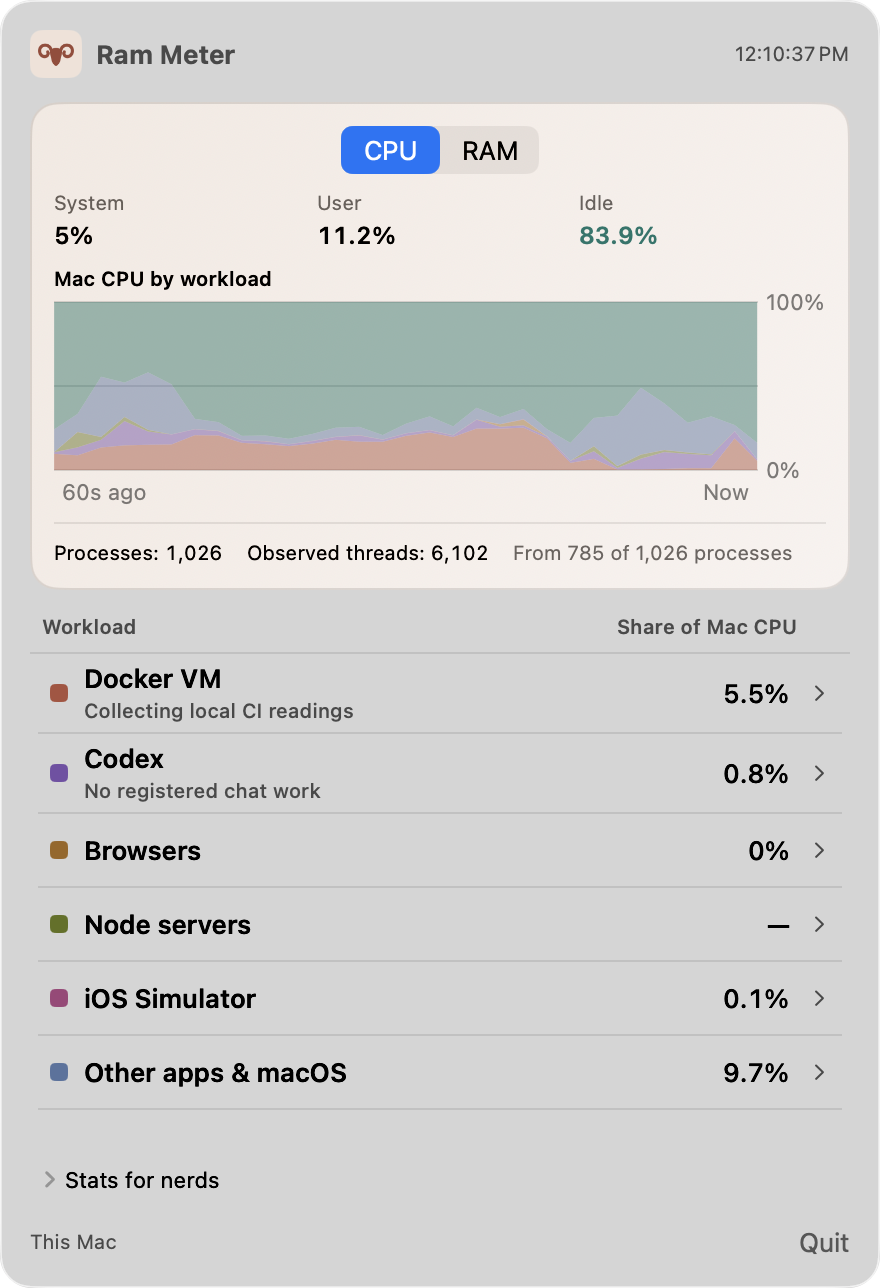
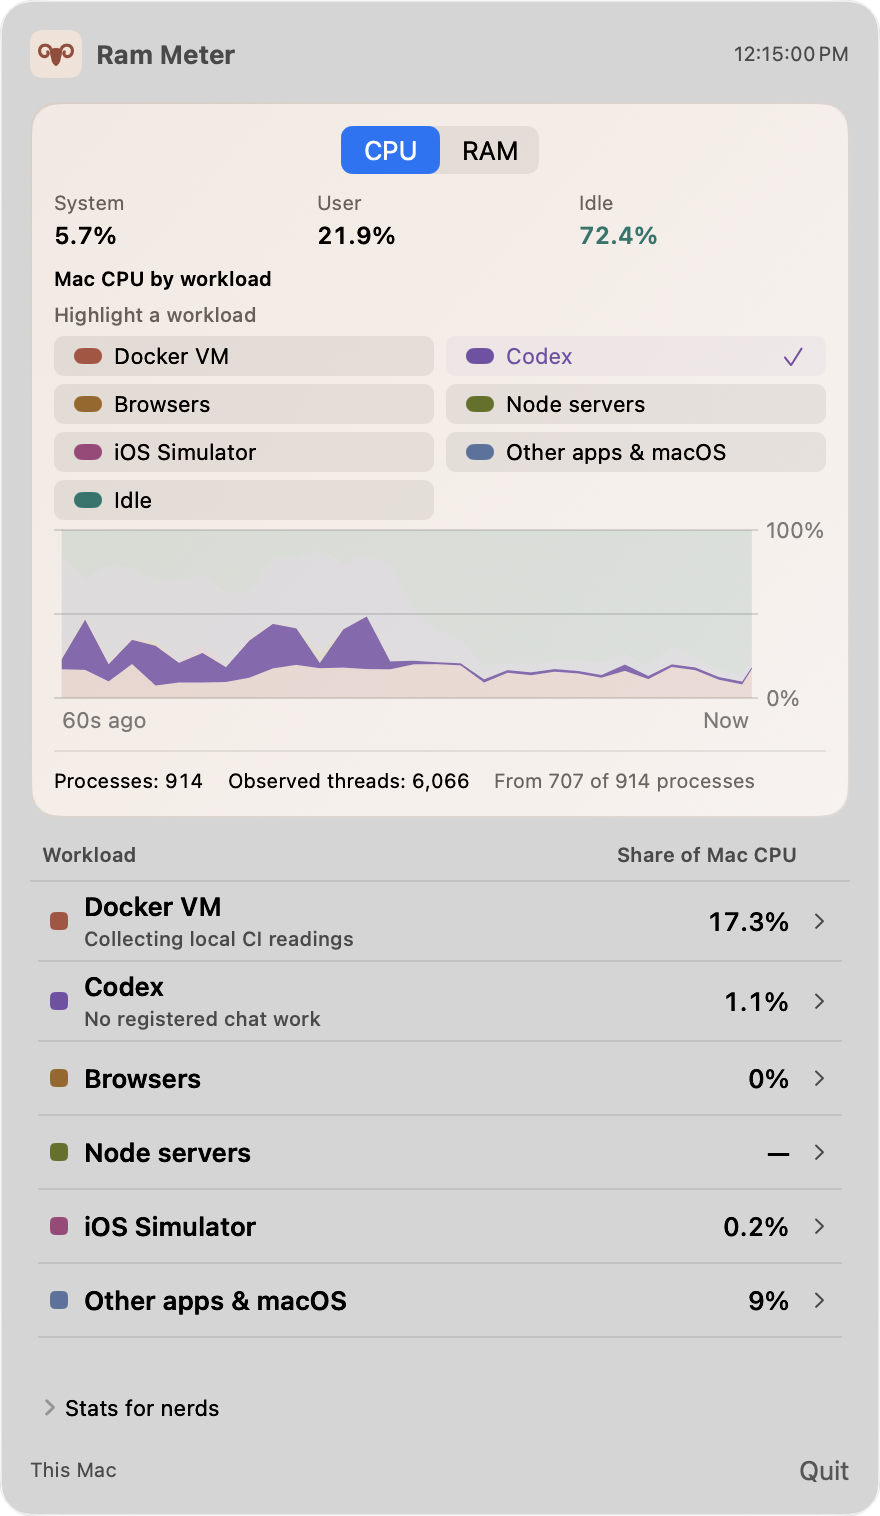
Release Ram Meter 1.5.0 with stacked chart previews

diff --git a/README.md b/README.md
@@ -12,7 +12,7 @@ Ram Meter shows the last 60 seconds of CPU and RAM use across Docker, Codex, bro
 
 | CPU usage by workload | RAM footprint by workload |
 | --- | --- |
-| <img src="Assets/screenshots/chart-cpu.png" width="440" alt="Ram Meter CPU tab with 60 seconds of stacked workload usage and idle capacity"> | <img src="Assets/screenshots/chart-ram.png" width="440" alt="Ram Meter RAM tab with per-workload history in GiB and current used and available memory"> |
+| <img src="Assets/screenshots/chart-cpu.png" width="440" alt="Ram Meter CPU tab with 60 seconds of stacked workload usage, idle capacity, and Codex highlighted"> | <img src="Assets/screenshots/chart-ram.png" width="440" alt="Ram Meter RAM tab with stacked workload footprints in GiB and Codex highlighted"> |
 
 ## Install
 
